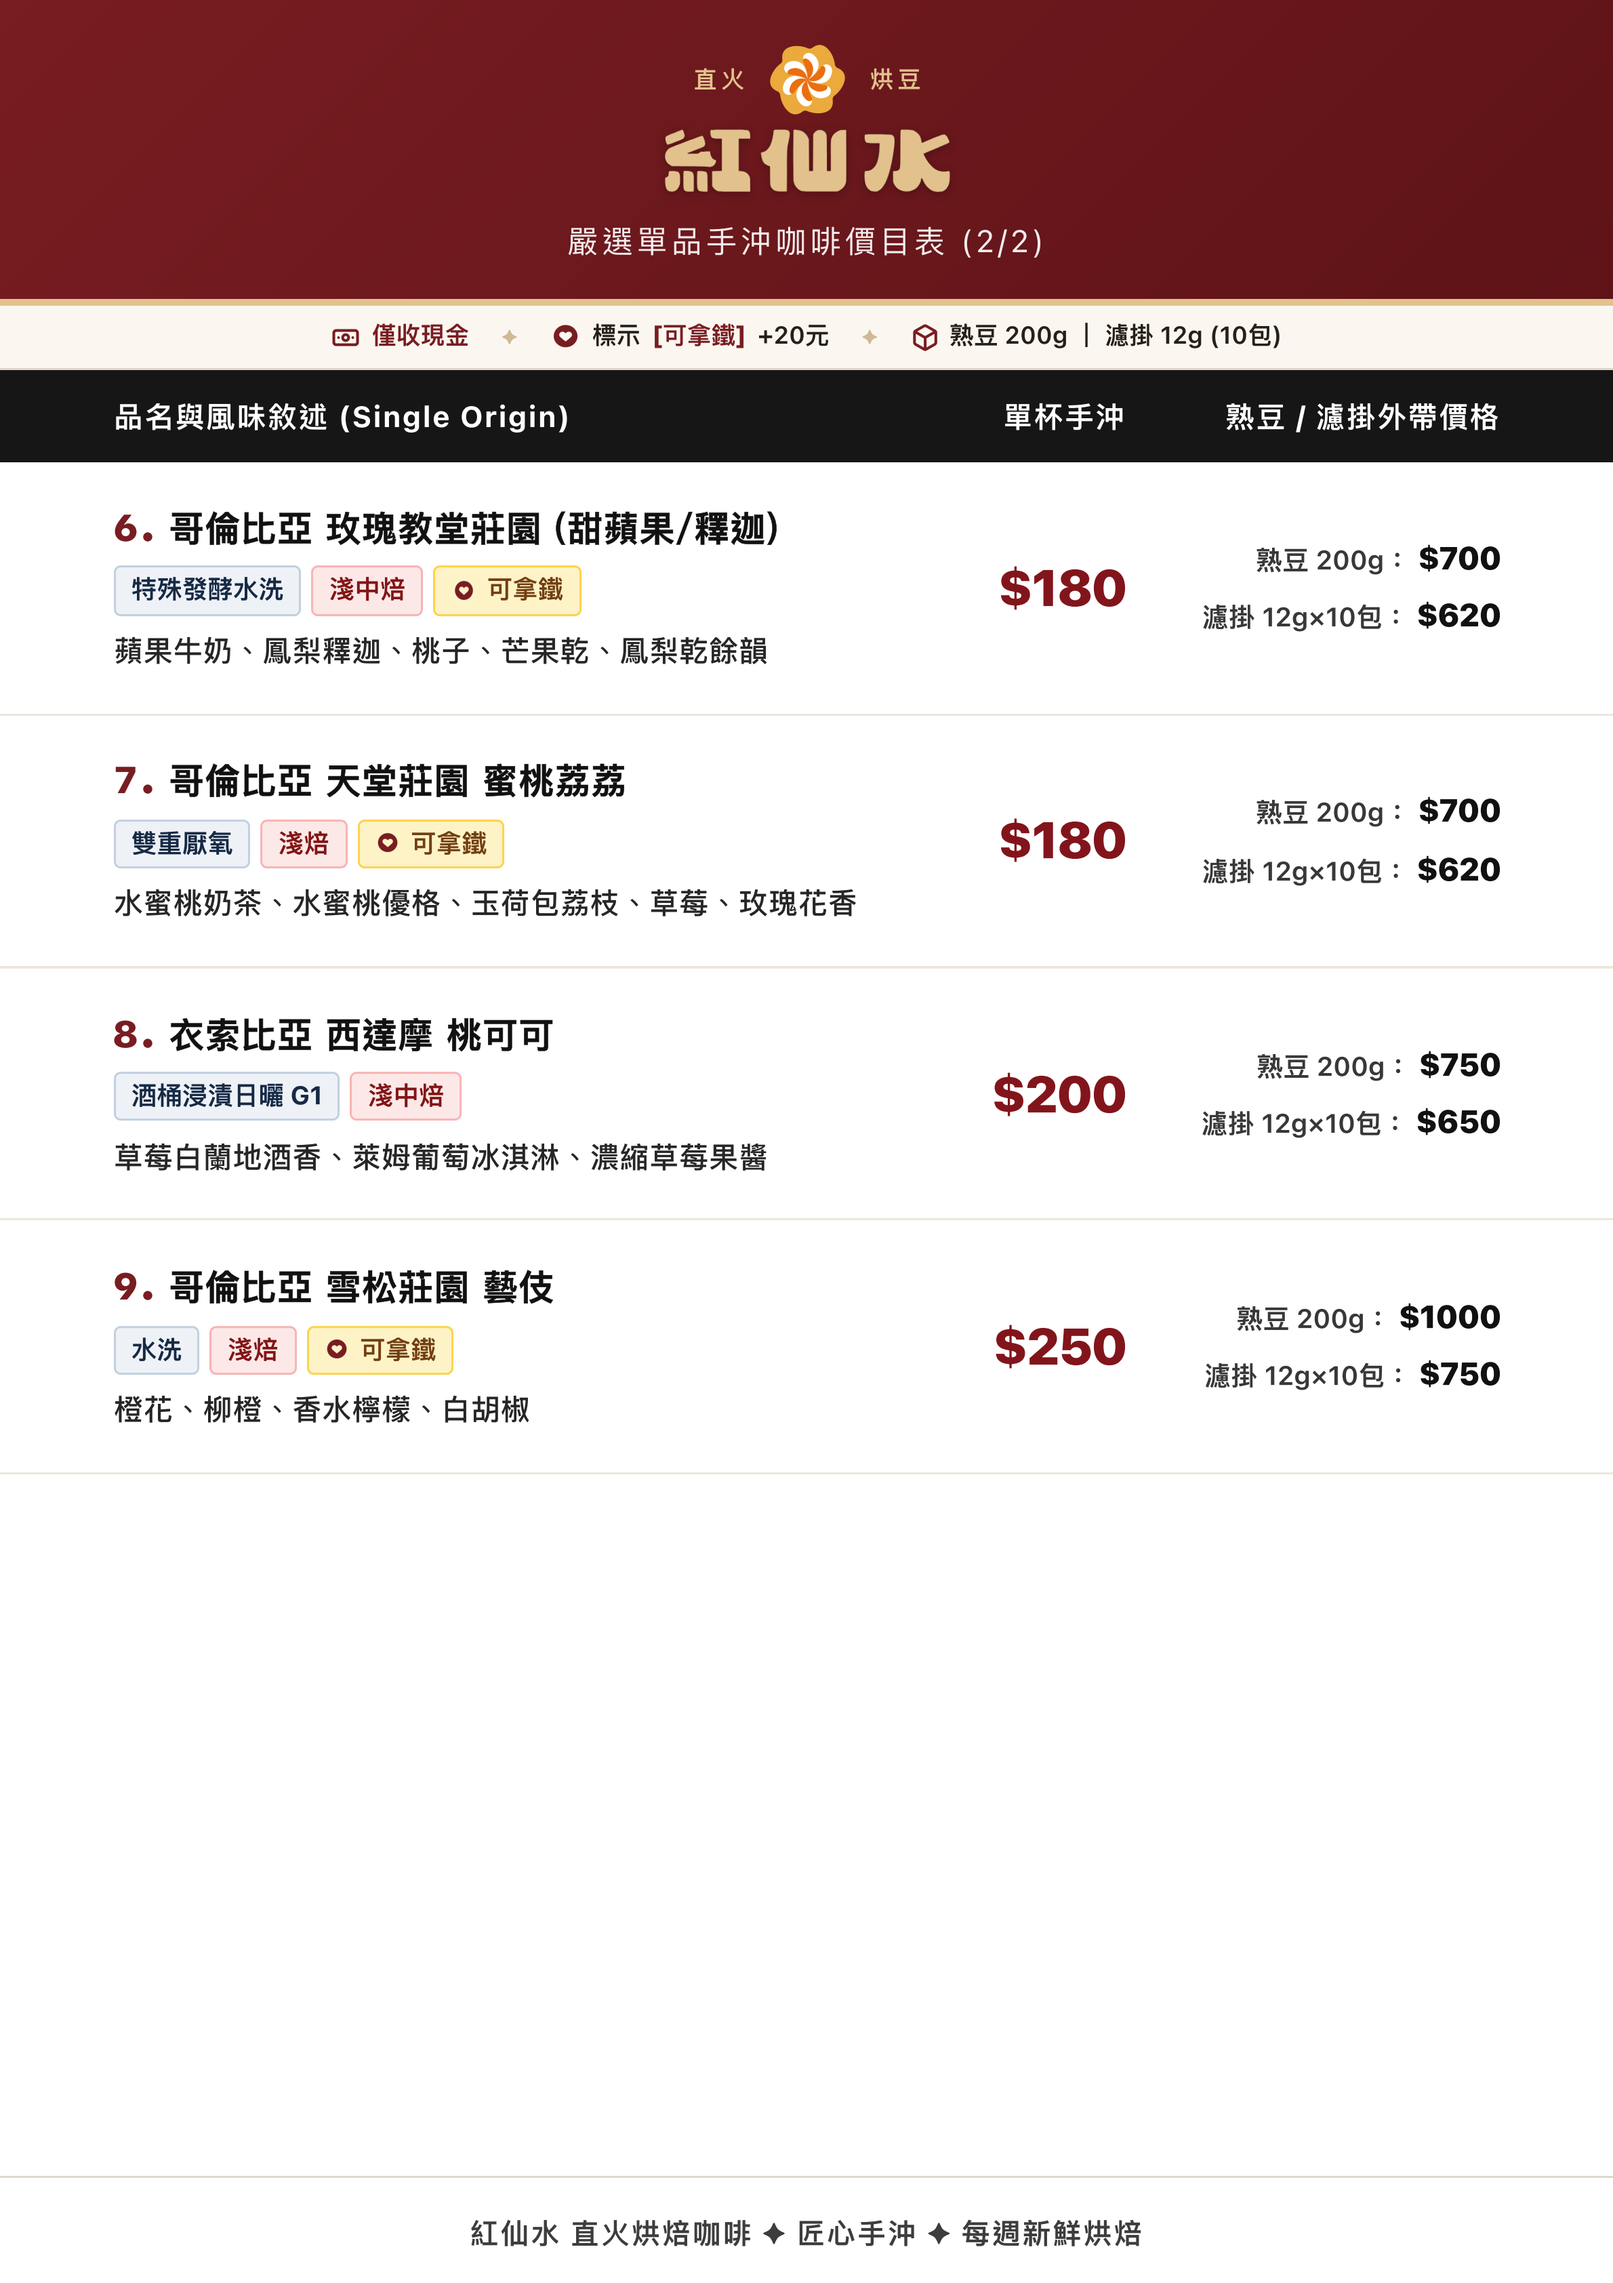
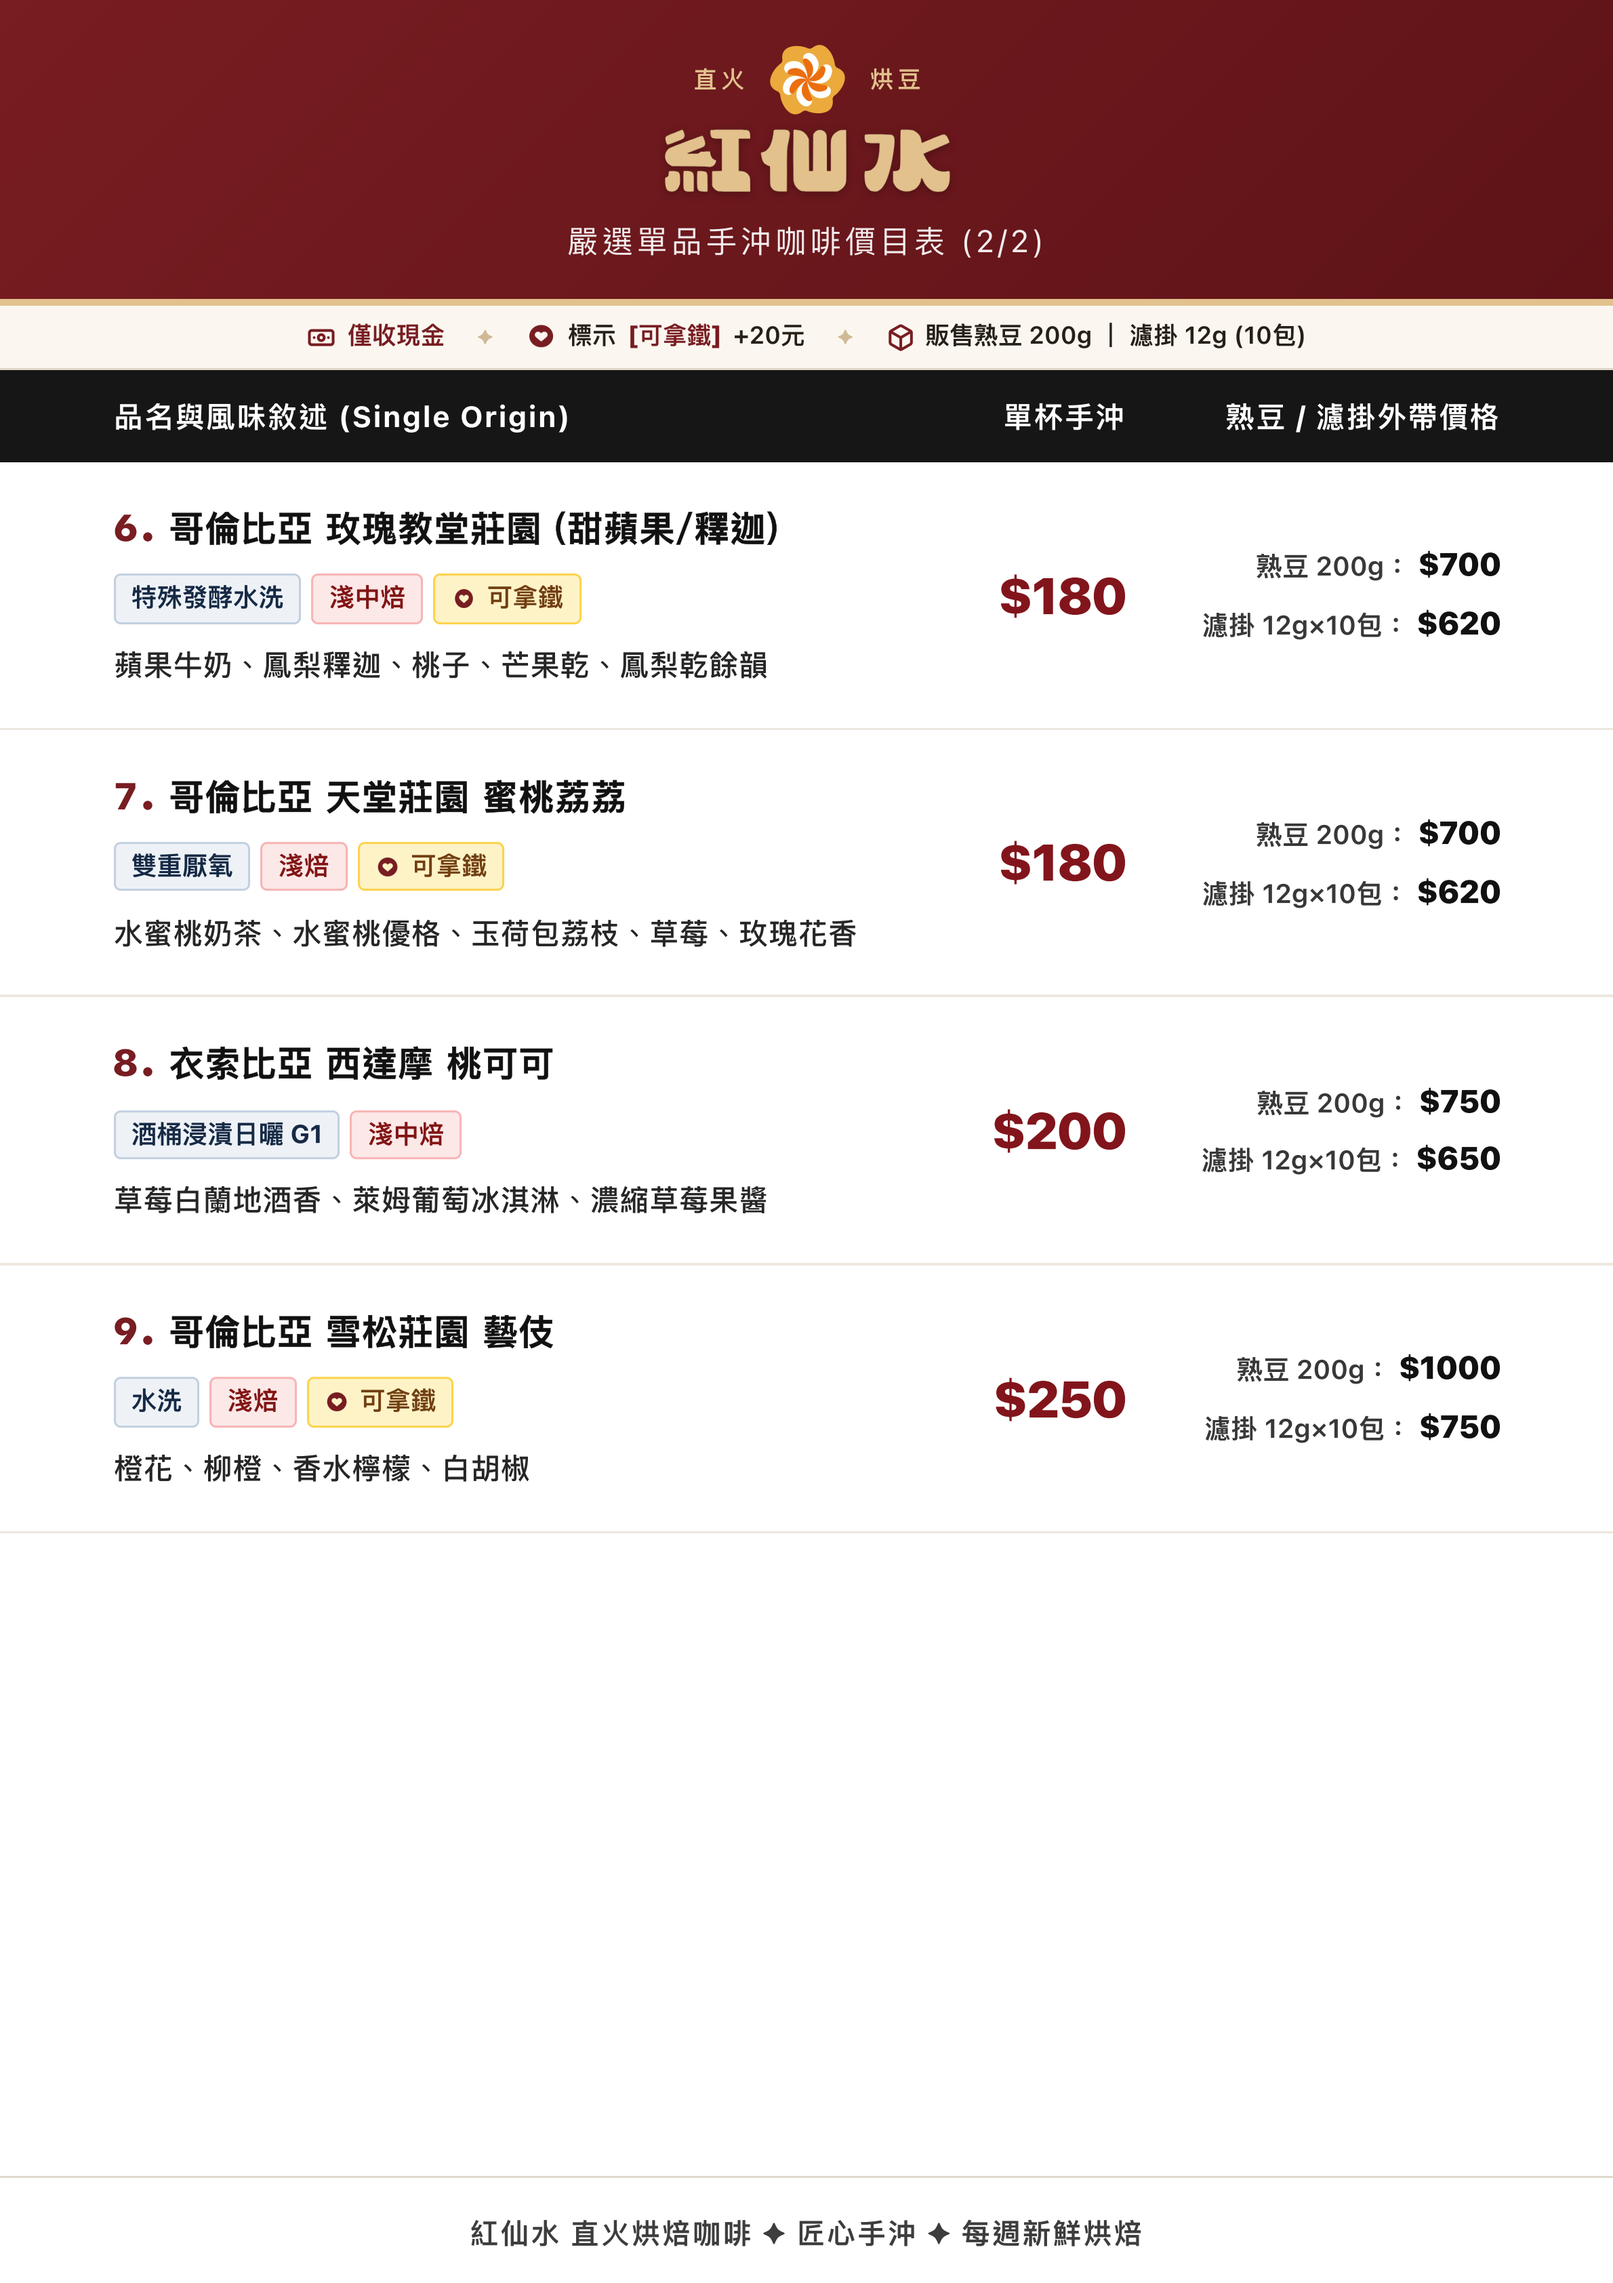
style: expand component group vertical spacing and update notice to '販售熟豆'

diff --git a/index.html b/index.html
@@ -669,7 +669,7 @@
           <span class="notice-divider">✦</span>
           <div class="notice-item"><svg class="notice-icon" viewBox="0 0 24 24" fill="none" stroke="currentColor" stroke-width="2.2" stroke-linecap="round" stroke-linejoin="round" aria-hidden="true" focusable="false"><path d="M18 8h1a4 4 0 0 1 0 8h-1"/><path d="M2 8h16v9a4 4 0 0 1-4 4H6a4 4 0 0 1-4-4V8z"/><line x1="6" y1="2" x2="6" y2="4"/><line x1="10" y1="2" x2="10" y2="4"/><line x1="14" y1="2" x2="14" y2="4"/></svg> 標示 <span class="notice-badge">[可拿鐵]</span> +20元</div>
           <span class="notice-divider">✦</span>
-          <div class="notice-item"><svg class="notice-icon" viewBox="0 0 24 24" fill="none" stroke="currentColor" stroke-width="2.2" stroke-linecap="round" stroke-linejoin="round" aria-hidden="true" focusable="false"><path d="M21 16V8a2 2 0 0 0-1-1.73l-7-4a2 2 0 0 0-2 0l-7 4A2 2 0 0 0 3 8v8a2 2 0 0 0 1 1.73l7 4a2 2 0 0 0 2 0l7-4A2 2 0 0 0 21 16z"/><polyline points="3.27 6.96 12 12.01 20.73 6.96"/><line x1="12" y1="22.08" x2="12" y2="12"/></svg> 熟豆 200g ｜ 濾掛 12g (10包)</div>
+          <div class="notice-item"><svg class="notice-icon" viewBox="0 0 24 24" fill="none" stroke="currentColor" stroke-width="2.2" stroke-linecap="round" stroke-linejoin="round" aria-hidden="true" focusable="false"><path d="M21 16V8a2 2 0 0 0-1-1.73l-7-4a2 2 0 0 0-2 0l-7 4A2 2 0 0 0 3 8v8a2 2 0 0 0 1 1.73l7 4a2 2 0 0 0 2 0l7-4A2 2 0 0 0 21 16z"/><polyline points="3.27 6.96 12 12.01 20.73 6.96"/><line x1="12" y1="22.08" x2="12" y2="12"/></svg> 販售熟豆 200g ｜ 濾掛 12g (10包)</div>
         </section>
 
         <div class="table-header">
@@ -758,7 +758,7 @@
           <span class="notice-divider">✦</span>
           <div class="notice-item"><img src="./assets/badge_heart_wine.png" class="wine-notice-heart-icon" alt="愛心" aria-hidden="true"> 標示 <span class="notice-badge">[可拿鐵]</span> +20元</div>
           <span class="notice-divider">✦</span>
-          <div class="notice-item"><svg class="notice-icon" viewBox="0 0 24 24" fill="none" stroke="currentColor" stroke-width="2.2" stroke-linecap="round" stroke-linejoin="round" aria-hidden="true" focusable="false"><path d="M21 16V8a2 2 0 0 0-1-1.73l-7-4a2 2 0 0 0-2 0l-7 4A2 2 0 0 0 3 8v8a2 2 0 0 0 1 1.73l7 4a2 2 0 0 0 2 0l7-4A2 2 0 0 0 21 16z"/><polyline points="3.27 6.96 12 12.01 20.73 6.96"/><line x1="12" y1="22.08" x2="12" y2="12"/></svg> 熟豆 200g ｜ 濾掛 12g (10包)</div>
+          <div class="notice-item"><svg class="notice-icon" viewBox="0 0 24 24" fill="none" stroke="currentColor" stroke-width="2.2" stroke-linecap="round" stroke-linejoin="round" aria-hidden="true" focusable="false"><path d="M21 16V8a2 2 0 0 0-1-1.73l-7-4a2 2 0 0 0-2 0l-7 4A2 2 0 0 0 3 8v8a2 2 0 0 0 1 1.73l7 4a2 2 0 0 0 2 0l7-4A2 2 0 0 0 21 16z"/><polyline points="3.27 6.96 12 12.01 20.73 6.96"/><line x1="12" y1="22.08" x2="12" y2="12"/></svg> 販售熟豆 200g ｜ 濾掛 12g (10包)</div>
         </section>
 
         <div class="table-header">

diff --git a/theme-hybrid.css b/theme-hybrid.css
@@ -175,7 +175,7 @@ body.theme-hybrid .hybrid-title-line {
   display: flex;
   align-items: baseline;
   gap: 5.1px;
-  margin-bottom: 5.1px;
+  margin-bottom: 9px;
 }
 
 body.theme-hybrid .hybrid-item-id {
@@ -204,7 +204,7 @@ body.theme-hybrid .hybrid-tags-group {
   align-items: center;
   gap: 5.1px;
   flex-wrap: wrap;
-  margin-bottom: 5.1px;
+  margin-bottom: 8.5px;
 }
 
 /* 標籤設計：極簡直火風（高對比度 + 清晰識別） */

diff --git a/data.js b/data.js
@@ -19,7 +19,7 @@ window.COFFEE_MENU_DATA = {
   notices: [
     { type: "cash", text: "僅限現金支付" },
     { type: "latte", text: "標示 [可拿鐵] 品項 +20元 可製作成拿鐵" },
-    { type: "package", text: "熟豆包裝：200g / 濾掛包：10包裝 (每包 12g)" }
+    { type: "package", text: "販售熟豆 200g ｜ 濾掛 12g (10包)" }
   ],
 
   items: [

diff --git a/style.css b/style.css
@@ -721,7 +721,7 @@ body.mode-continuous .sheet-page-indicator {
   display: flex;
   align-items: baseline;
   gap: 5.1px;
-  margin-bottom: 5.1px;
+  margin-bottom: 9px;
 }
 
 .item-id {
@@ -750,7 +750,7 @@ body.mode-continuous .sheet-page-indicator {
   flex-wrap: wrap;
   align-items: center;
   gap: 5.1px;
-  margin-bottom: 5.1px;
+  margin-bottom: 8.5px;
 }
 
 .tag-pill {
